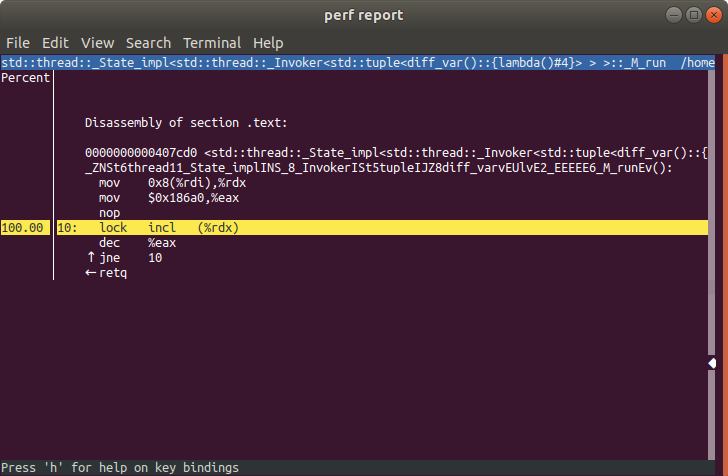
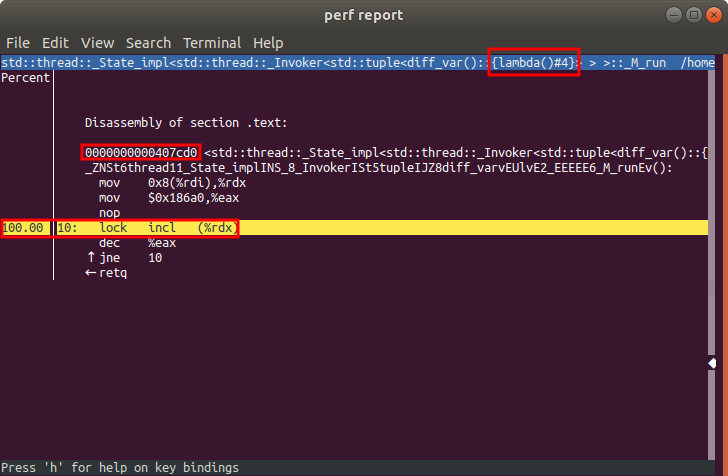
Add some highlighting

Changed region(s): [[0.0, 0.4412, 0.3324, 0.5], [0.0907, 0.2941, 0.3022, 0.3529], [0.6648, 0.0882, 0.8159, 0.1765]]

diff --git a/_posts/2020-03-27-perf-c2c.md b/_posts/2020-03-27-perf-c2c.md
@@ -83,7 +83,7 @@ Let's look at the samples for loads. Unsurprisingly, we find that most of the sa
 
 ![loads lambdas](/assets/perf_c2c/loads_lambdas.png)
 
-We find that the loads and store samples are all associated with the atomic increment. Let's remember a few things from this slide. The first is where this atomic incremented is located in memory. We find the base of the lambda is at 0x407cd0, and the incl is offset by 0x10. We'll therefore focus on 0x407ce0 (the sum of the base address and the offset).
+We find that the loads and store samples are all associated with the atomic increment. Let's remember a few things from this slide. The first is where this atomic incremented is located in memory. We find the base of the lambda is at `0x407cd0`, and the incl is offset by `0x10`. We'll therefore focus on `0x407ce0` (the sum of the base address and the offset).
 
 ![lambda 4 hotspot](/assets/perf_c2c/lambda_4_hotspot.png)
 
@@ -95,21 +95,21 @@ perf c2c report
 
 ![perf c2c report](/assets/perf_c2c/perf_c2c_report.png)
 
-We can get more information about a cache line by pressing "d" while it is selected in the table. When we do this, we find that cache line is being written contended at 4 places (our four threads running the "work" function). One thing to observe here is the code address. Notice how one of the entries is 0x407ce0. This was the address of the incl instruction we looked at earlier! The other code addresses correspond to the incl instruction being executed on the other 3 threads.
+We can get more information about a cache line by pressing `d` while it is selected in the table. When we do this, we find that cache line is being written contended at 4 places (our four threads running the "work" function). One thing to observe here is the code address. Notice how one of the entries is `0x407ce0`. This was the address of the incl instruction we looked at earlier! The other code addresses correspond to the incl instruction being executed on the other 3 threads.
 
 ![cacheline view](/assets/perf_c2c/cacheline_view.png)
 
 ## Compilation in Debug Mode
 
-If you compiled your application with the -g flag (instead of -O3), you may see a different hotspot in your application. Now it looks like our hotspot is at "atomic_base.h", a file that we did not write, or directly include.
+If you compiled your application with the `-g` flag (instead of `-O3`), you may see a different hotspot in your application. Now it looks like our hotspot is at `atomic_base.h`, a file that we did not write, or directly include.
 
 ![debug mode](/assets/perf_c2c/debug_mode.png)
 
-However, if we look up what is actually at line 548 of atomic_base.h, we find that it is just the intrinsic for performing and atomic increment.
+However, if we look up what is actually at line 548 of `atomic_base.h`, we find that it is just the intrinsic for performing and atomic increment.
 
 ![fetch and add](/assets/perf_c2c/fetch_and_add.png)
 
-In this, and many other scenarios, having a call graph can help you debug performance bug. If we take the same code, but record with the "-g" flag, we can trace back how we got to fetch\_and\_add. We can load in our data to perf the same way we did previously.
+In this, and many other scenarios, having a call graph can help you debug performance bug. If we take the same code, but record with the `-g` flag, we can trace back how we got to fetch\_and\_add. We can load in our data to perf the same way we did previously.
 
 ```bash
 perf c2c record -g ./false_sharing --benchmark_filter=falseSharing/real_time
@@ -121,7 +121,7 @@ perf c2c report
 
 ![fetch and add](/assets/perf_c2c/call_graph.png)
 
-Now we can see that our our atomic increment comes from atomic_base.h, which is called from the work function, which is running in our 4 threads launched with lambdas.
+Now we can see that our our atomic increment comes from `atomic_base.h`, which is called from the work function, which is running in our 4 threads launched with lambdas.
 
 ## Concluding remarks
 
@@ -131,7 +131,7 @@ Thanks for reading,
 
 --Nick
 
-### Links to source and YouTube Tutorial
+### Link to the source code
 
-- [Source Code](https://github.com/CoffeeBeforeArch/uarch_benchmarks/tree/master/false_sharing)
+- [Source Code](https://github.com/CoffeeBeforeArch/spring_2020_tutorial/tree/master/false_sharing)
 
